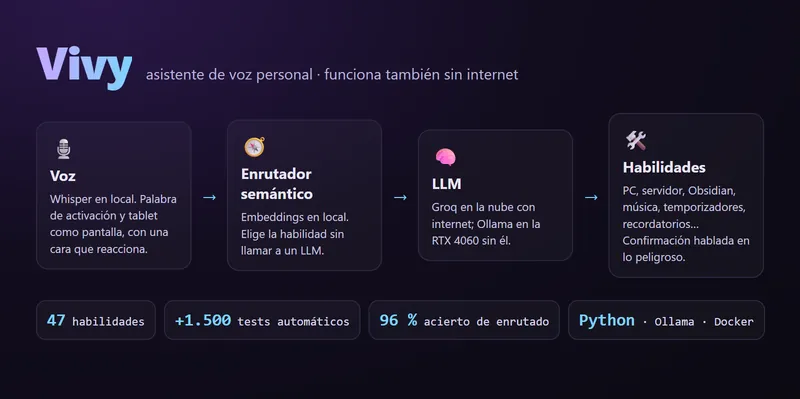
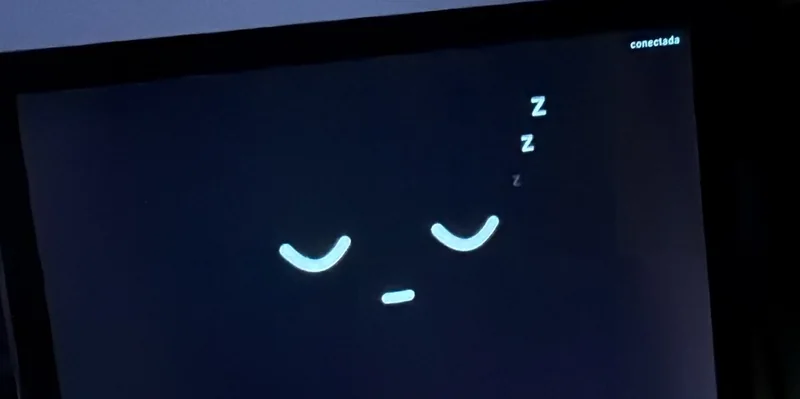
Vivy: foto real de la tablet en lugar del esquema
La foto de Vivy dormida en su tablet, sin el panel de Docker ni el otro
monitor: completa sobre un fondo desenfocado de la propia foto para la
vista ampliada, y encuadrada en la cara para la miniatura de la tarjeta.

Claude-Session: https://claude.ai/code/session_015Cm1mkctHGWNTwWV23Tuxb

diff --git a/index.html b/index.html
@@ -688,7 +688,7 @@
             <!-- Proyecto: Vivy -->
             <article class="card card--project" data-tags="python ia" data-date="2026-09-18" data-title="Vivy">
                 <div class="card__image-container">
-                    <img src="assets/images/vivy_project-card.webp" alt="Vivy - arquitectura del asistente de voz" class="card__image" loading="lazy"
+                    <img src="assets/images/vivy_project-card.webp" alt="Vivy en su tablet: la cara del asistente, dormida de noche" class="card__image" loading="lazy"
                         data-lightbox-img="assets/images/vivy_project.webp">
                 </div>
                 <div class="project">
